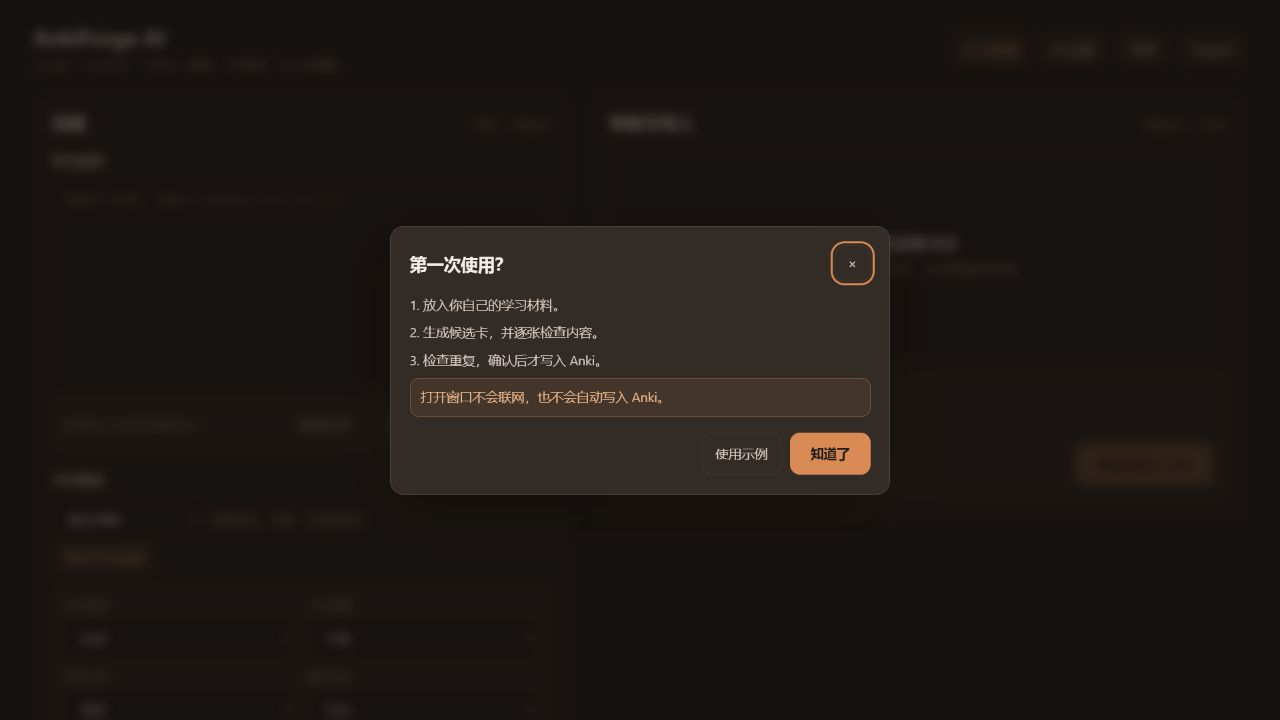
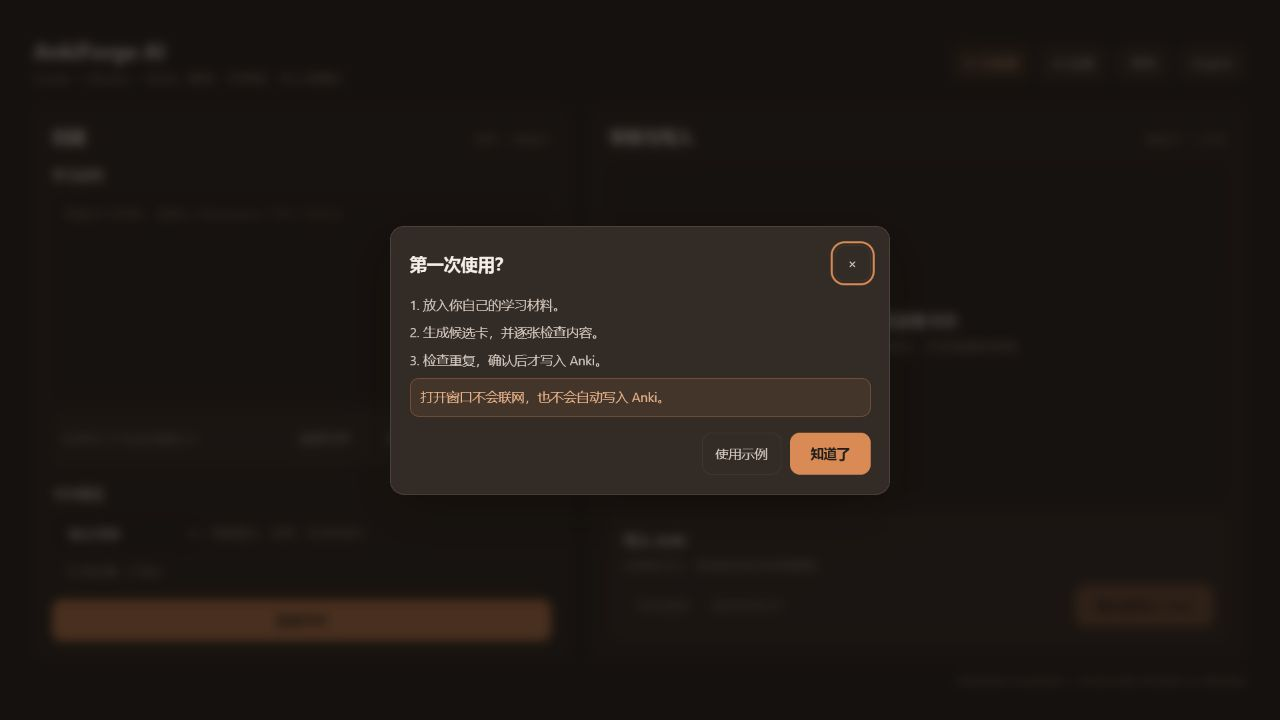
Align review panel with the create workflow

diff --git a/docs/assets/ui_preview_v0_15.html b/docs/assets/ui_preview_v0_15.html
@@ -120,7 +120,7 @@
     .workspace {
       display: grid;
       grid-template-columns: minmax(430px, 45fr) minmax(500px, 55fr);
-      align-items: start;
+      align-items: stretch;
       gap: 20px;
     }
 
@@ -211,8 +211,15 @@
     .inline-status.error { background: var(--danger-bg); border-color: var(--danger-line); color: var(--danger); }
     .inline-status.success { background: var(--good-bg); border-color: var(--good-line); color: var(--good); }
 
-    .review-stage { margin-top: 16px; }
+    .review-panel { display: flex; flex-direction: column; }
+    .review-stage {
+      flex: 1;
+      display: flex;
+      flex-direction: column;
+      margin-top: 16px;
+    }
     .empty-state {
+      flex: 1;
       min-height: 210px;
       display: grid;
       place-content: center;
@@ -238,7 +245,7 @@
     .card-actions { display: flex; gap: 7px; margin-left: auto; }
     .card-actions button { min-height: 30px; padding: 4px 9px; }
 
-    .write-card { margin-top: 14px; padding: 14px; background: var(--raised); border: 1px solid var(--line); border-radius: 11px; }
+    .write-card { flex: 0 0 auto; margin-top: 14px; padding: 14px; background: var(--raised); border: 1px solid var(--line); border-radius: 11px; }
     .write-card h3 { margin: 0; font-size: 14px; }
     .write-card > p { margin: 6px 0 0; }
     .write-grid { display: grid; grid-template-columns: repeat(2, minmax(0, 1fr)); gap: 10px 12px; margin-top: 12px; }
@@ -367,7 +374,7 @@
         <div class="inline-status" id="generationStatus" role="status" hidden></div>
       </section>
 
-      <section class="panel" aria-labelledby="reviewTitle">
+      <section class="panel review-panel" aria-labelledby="reviewTitle">
         <div class="panel-heading">
           <h2 id="reviewTitle" data-zh="审核与写入" data-en="Review &amp; write">审核与写入</h2>
           <span class="panel-kicker" data-zh="候选卡 → Anki" data-en="Drafts → Anki">候选卡 → Anki</span>

diff --git a/tests/test_product_styles.py b/tests/test_product_styles.py
@@ -87,7 +87,7 @@ class ProductStyleTests(unittest.TestCase):
         ):
             self.assertIn(selector, PRODUCT_DARK_STYLESHEET)
 
-    def test_empty_state_is_compact_without_changing_two_column_layout(self):
+    def test_empty_state_fills_review_column_without_changing_two_column_layout(self):
         source = self.panel_source()
         cards = self.function_source(source, "_build_cards_section")
         builder = self.function_source(source, "_build_ui")
@@ -96,7 +96,8 @@ class ProductStyleTests(unittest.TestCase):
         self.assertNotIn("EmptyStateGlyph", cards)
         self.assertEqual(cards.count("Qt.AlignmentFlag.AlignCenter"), 2)
         self.assertIn("self.cards_empty_widget.setMinimumHeight(150)", cards)
-        self.assertIn("self.cards_empty_widget.setMaximumHeight(180)", cards)
+        self.assertNotIn("self.cards_empty_widget.setMaximumHeight", cards)
+        self.assertIn("layout.addWidget(self.cards_empty_widget, 1)", cards)
         self.assertIn("columns = QHBoxLayout()", builder)
         self.assertIn("columns.setSpacing(COLUMN_GAP)", builder)
         self.assertIn("columns.addWidget(left, 45)", builder)

diff --git a/ankiforge_ai/ui/card_maker_panel.py b/ankiforge_ai/ui/card_maker_panel.py
@@ -1001,7 +1001,6 @@ class CardMakerPanel(QWidget):
         self.cards_empty_widget = QWidget()
         self.cards_empty_widget.setObjectName("CardsEmptyState")
         self.cards_empty_widget.setMinimumHeight(150)
-        self.cards_empty_widget.setMaximumHeight(180)
         empty_layout = QVBoxLayout(self.cards_empty_widget)
         empty_layout.setContentsMargins(24, 28, 24, 28)
         self.empty_cards_title = QLabel(self.t("no_cards"))
@@ -1012,7 +1011,7 @@ class CardMakerPanel(QWidget):
         self.empty_cards_help.setAlignment(Qt.AlignmentFlag.AlignCenter)
         empty_layout.addWidget(self.empty_cards_title)
         empty_layout.addWidget(self.empty_cards_help)
-        layout.addWidget(self.cards_empty_widget)
+        layout.addWidget(self.cards_empty_widget, 1)
 
         self.cards_scroll = QScrollArea()
         self.cards_scroll.setWidgetResizable(True)

diff --git a/tests/test_warm_charcoal_visual_contract.py b/tests/test_warm_charcoal_visual_contract.py
@@ -65,6 +65,10 @@ class WarmCharcoalVisualContractTests(unittest.TestCase):
         self.assertIn('data-action="open-write-confirmation"', preview)
         self.assertIn('aria-modal="true"', preview)
         self.assertIn("<script>", preview)
+        self.assertIn("align-items: stretch", preview)
+        self.assertIn('class="panel review-panel"', preview)
+        self.assertIn(".review-panel", preview)
+        self.assertIn("flex: 1", preview)
         self.assertNotIn("min-height: 650px", preview)
         self.assertNotIn(".preview-note { position: fixed", preview)
         for network_primitive in ("fetch(", "xmlhttprequest", "websocket"):

diff --git a/docs/manual_anki_acceptance.md b/docs/manual_anki_acceptance.md
@@ -56,7 +56,7 @@
 - [ ] 在 100% / 125% / 150% high DPI 和较小窗口中检查主屏、AI Settings、Help 与确认框；没有重叠、截断或控件消失。
 - [ ] 对比 `docs/assets/ui_preview_v0_15.html` 仅核对色彩方向；真实 Qt 渲染优先，mock 不能替代 Anki 验收。
 - [ ] 抽查写入后的卡片外观，确认 generated Anki card template 未随产品 QSS 改变。
-- [ ] 初次打开时窗口比例紧凑，空态不伪装成已有候选卡；普通高度与高屏幕下空白不会全部堆在页面底部。
+- [ ] 初次打开时窗口比例紧凑，空态不伪装成已有候选卡；宽屏下两栏底边对齐，审核空态自然填充中间空间，写入区位于右栏底部。
 - [ ] 逐一点击“使用示例”“生成设置”“支持能力”“AI 设置”“帮助”“检查重复”和最终写入确认，确认菜单、展开区、弹层及按钮 pressed 状态统一且没有背景滚动穿透。
 - [ ] 最终确认框中取消是安静的次操作、确认写入是唯一主操作；关闭、Esc 和点击取消均不会触发写入。
 

diff --git a/docs/visual_design_v0_15.md b/docs/visual_design_v0_15.md
@@ -8,6 +8,7 @@
 
 - 可见流程仍是 `Create → Review → Write`；
 - 两栏布局、控件数量、默认收起的生成设置和 AI Settings Modal 均不变；
+- 两栏在宽屏下保持底边对齐，审核空态可伸缩，写入区稳定停靠在右栏底部；
 - No new controls；没有新增主题选择、质量阈值或高级开关；
 - Provider、API key、查重、最终确认和写入边界均不变；
 - generated Anki card template CSS 不属于本轮范围，`theme/style.css` 未改；

diff --git a/docs/visual_qa_v0_15_interactions.md b/docs/visual_qa_v0_15_interactions.md
@@ -9,8 +9,8 @@
 
    [截图](assets/visual_qa/01-empty-state.png)
 
-   真实空态替代预置候选卡；创建与审核区域保持 45 / 55 主次关系，页面采用内容
-   高度并在高屏幕中均衡上下空间。
+   真实空态替代预置候选卡；创建与审核区域保持 45 / 55 主次关系，两栏底边
+   对齐。审核空态自适应填充中间空间，写入区稳定落在右栏底部，不再形成悬空缺口。
 
 2. **生成设置展开 — 健康**
 
